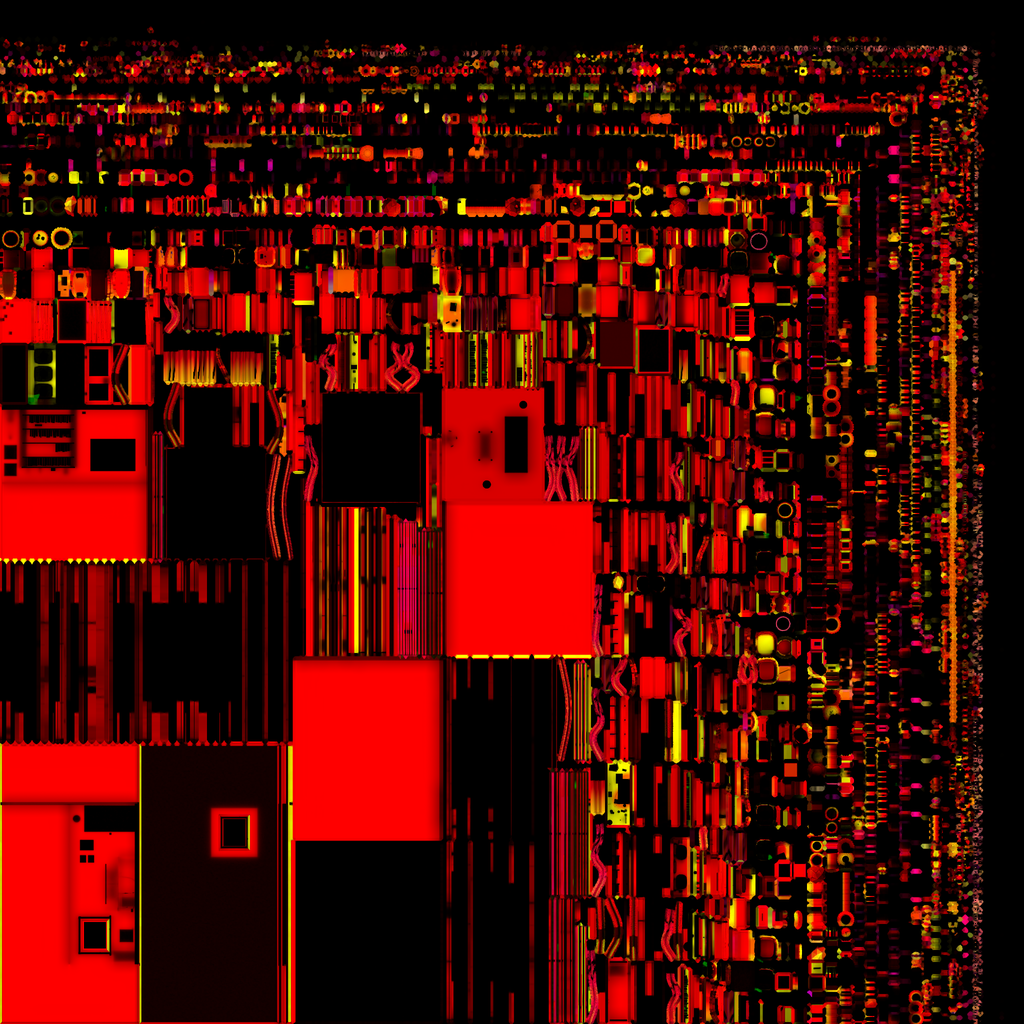
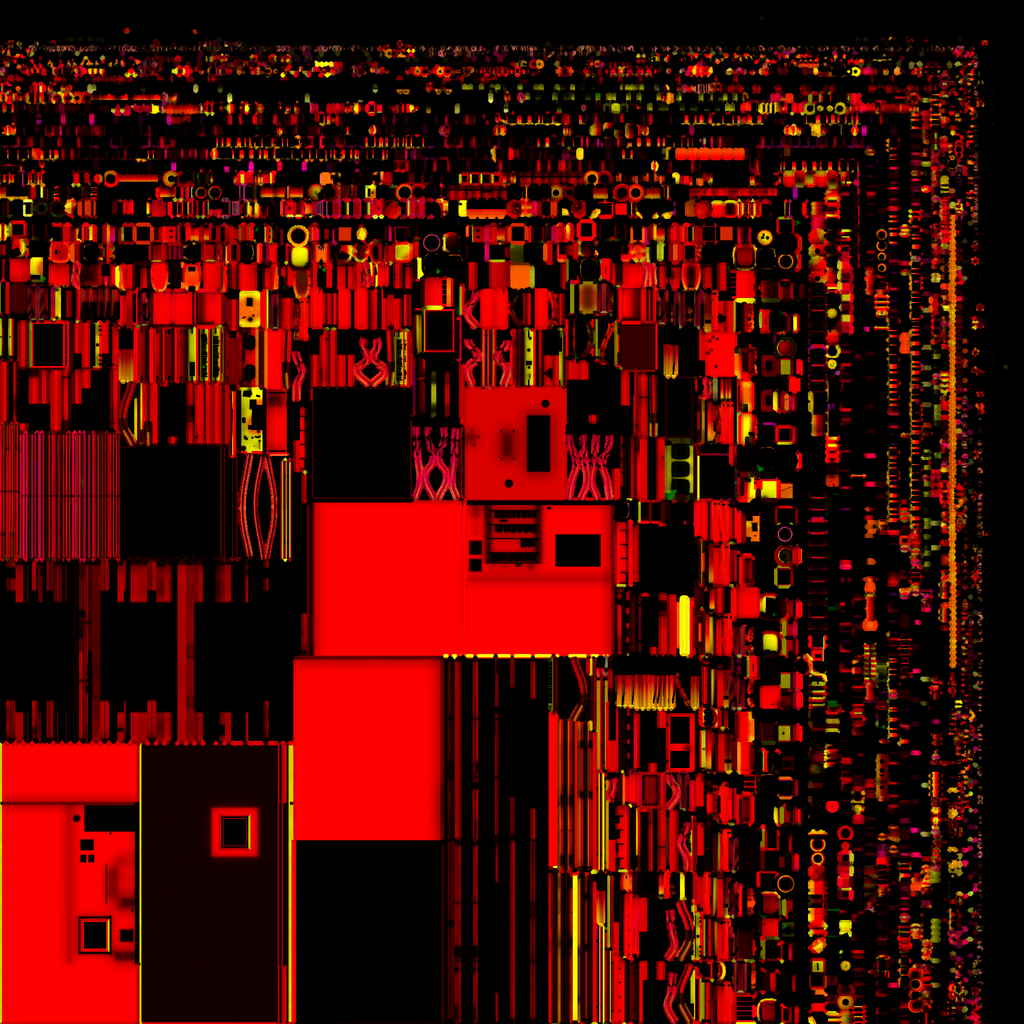
Bake the wedged laptop, and make the downscale step stop lying
The bake matches: 178 objects at 4096 and 256 samples, stamped 05cc152c
against the model that carries the thinner laptop and the crowned mouse.

The half-size textures did not regenerate with it, and the reason is worth
keeping. Two commits ago a subprocess call was added to the end of the bake
specifically so the mobile atlases could never go stale, with a comment
explaining that a stale one is invisible on the machine doing the baking. It
ran `sys.executable` — which inside Blender is Blender's own bundled Python,
and that interpreter has no Pillow. The script printed "Pillow is not
installed", exited 0, and `check=False` swallowed it. So the safeguard against
silent staleness failed silently, and worse than useless: it also removed the
reason to check by hand. It uses a real python now and prints what happened
either way, loudly, when nothing was written.

And the fallback path gets its own grade back. Every brightness pass in the
last few commits was aimed at the baked room, and the unbaked one kept being
dragged along behind it until it hit 2.2 and blew out — pale lavender walls,
no shadows, none of the contrast the room is built on. It has its own lights;
it needs its own number. 1.8 matches the bake's legibility rather than its
exposure.

Worth noting for next time: the dev server inlines the geometry fingerprint at
startup, so a server left running across a re-export compares the new bake
[…]

diff --git a/src/room/RoomExperience.tsx b/src/room/RoomExperience.tsx
@@ -52,7 +52,13 @@ function Exposure({ baked }: { baked: boolean }) {
   // but "night" was costing more legibility than it was buying atmosphere —
   // whole corners were below what the tone curve can separate, and a portfolio
   // whose contents are hard to make out has spent its mood badly.
-  gl.toneMappingExposure = baked ? 3.7 : 2.2;
+  //
+  // The two numbers are not one number. Every brightness pass here has been
+  // aimed at the baked path, and the fallback kept getting dragged up with it
+  // until it reached 2.2 and blew out — pale lavender walls, no shadows, the
+  // opposite of the room. It has its own lights and its own grade, and this is
+  // it: bright enough to match the bake's *legibility*, not its exposure.
+  gl.toneMappingExposure = baked ? 3.7 : 1.8;
   return null;
 }
 

diff --git a/scripts/blender/bake_room.py b/scripts/blender/bake_room.py
@@ -628,15 +628,39 @@ def main() -> None:
     # loads the full atlas and looks correct; only phones get the old lighting,
     # and only phones show it. Tying it to the bake is the only arrangement
     # where the two cannot drift.
-    try:
-        import subprocess
+    # Run with a *system* python, not Blender's, and say out loud what happened.
+    #
+    # The first version of this used `sys.executable`, which inside Blender is
+    # its own bundled interpreter — and that one has no Pillow. The downscale
+    # script printed "Pillow is not installed", exited 0, and `check=False`
+    # meant the bake never noticed. So the safeguard written specifically to
+    # stop the mobile textures going stale sat there going through the motions
+    # while they went stale, which is worse than not having it: it also removed
+    # the reason to check by hand.
+    #
+    # Hence both changes. A real python is preferred over Blender's, and the
+    # outcome is printed either way — a step that can quietly do nothing is a
+    # step that eventually does nothing.
+    import shutil
+    import subprocess
 
-        subprocess.run(
-            [sys.executable, str(Path(__file__).resolve().parent.parent / "downscale_textures.py")],
-            check=False,
+    script = Path(__file__).resolve().parent.parent / "downscale_textures.py"
+    runner = shutil.which("python3") or shutil.which("python") or sys.executable
+    try:
+        done = subprocess.run(
+            [runner, str(script)], check=False, capture_output=True, text=True, timeout=300
         )
+        wrote = "wrote" in (done.stdout or "")
+        print((done.stdout or "").strip() or "[downscale] no output")
+        if not wrote:
+            print(
+                "[bake_room] WARNING: the half-size textures were NOT regenerated, so "
+                "phones will load the previous bake's lighting. Fix with:\n"
+                f"    pip install Pillow && python3 {script}",
+                file=sys.stderr,
+            )
     except Exception as exc:  # pragma: no cover - never worth failing a bake over
-        print(f"[bake_room] half-size textures not written: {exc}", file=sys.stderr)
+        print(f"[bake_room] WARNING: half-size textures not written: {exc}", file=sys.stderr)
 
     print("[bake_room] done — room.glb plus the lightmap are what the site loads")
 
